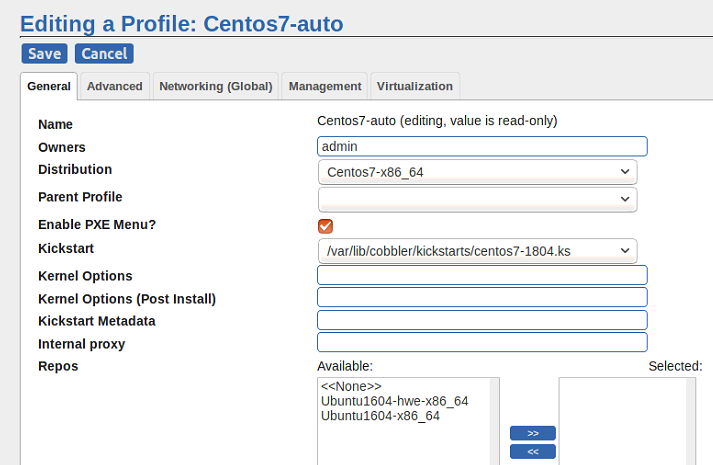
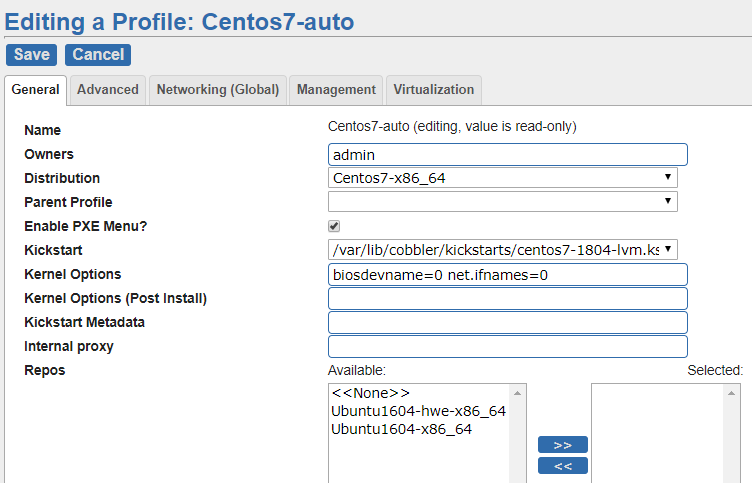
Update

Changed region(s): [[0.0, 0.0301, 1.0, 1.0]]

diff --git a/Queens/Centos7-1804-KickStart/README.md b/Queens/Centos7-1804-KickStart/README.md
@@ -87,6 +87,8 @@ Trường "Kernel Options" có nội dung: `interface=eth0 biosdevname=0 net.ifn
 \- Tạo profile tên `Centos7-auto`, với cấu hình như sau:  
 <img src="images/caidat-cobbler-2.png" />
 
+Trường "Kernel Options" có nội dung: `biosdevname=0 net.ifnames=0` .  
+
 # 4.Cấu hình cài đặt tự động cho OpenStack
 \- Download các file shell scripts. Thực hiện các câu lệnh sau:  
 ```
